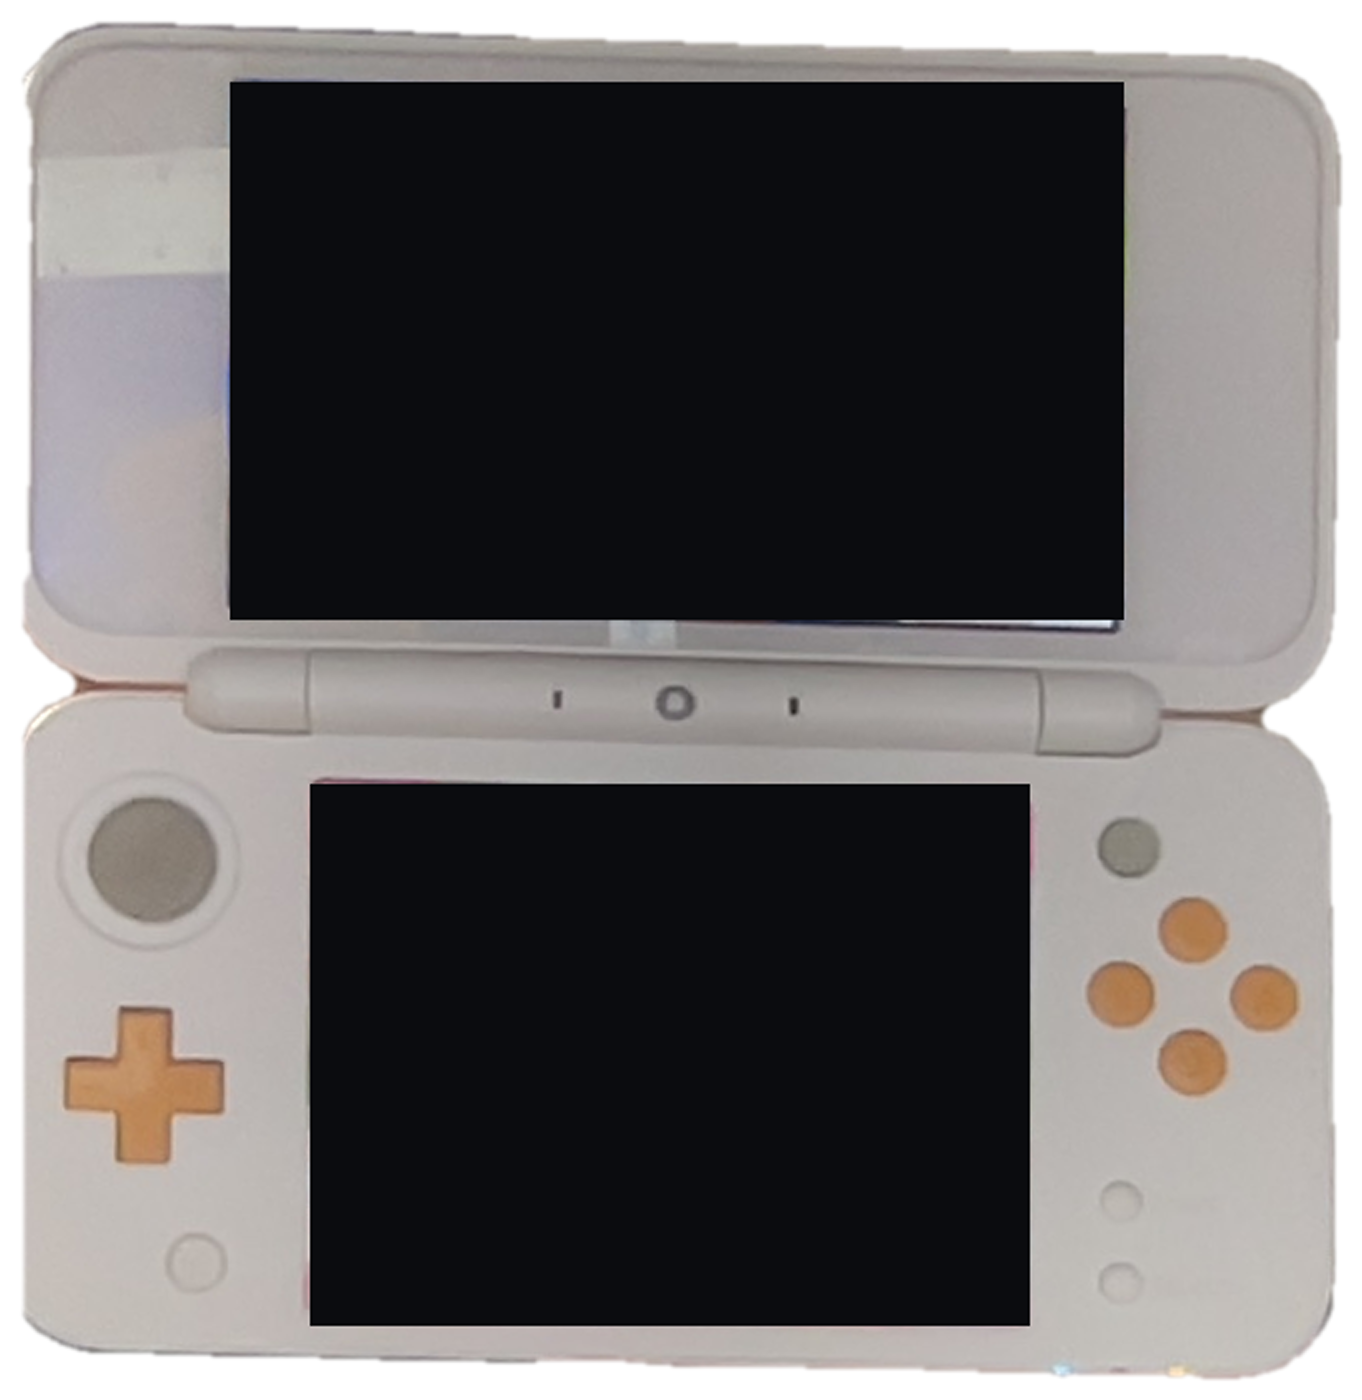
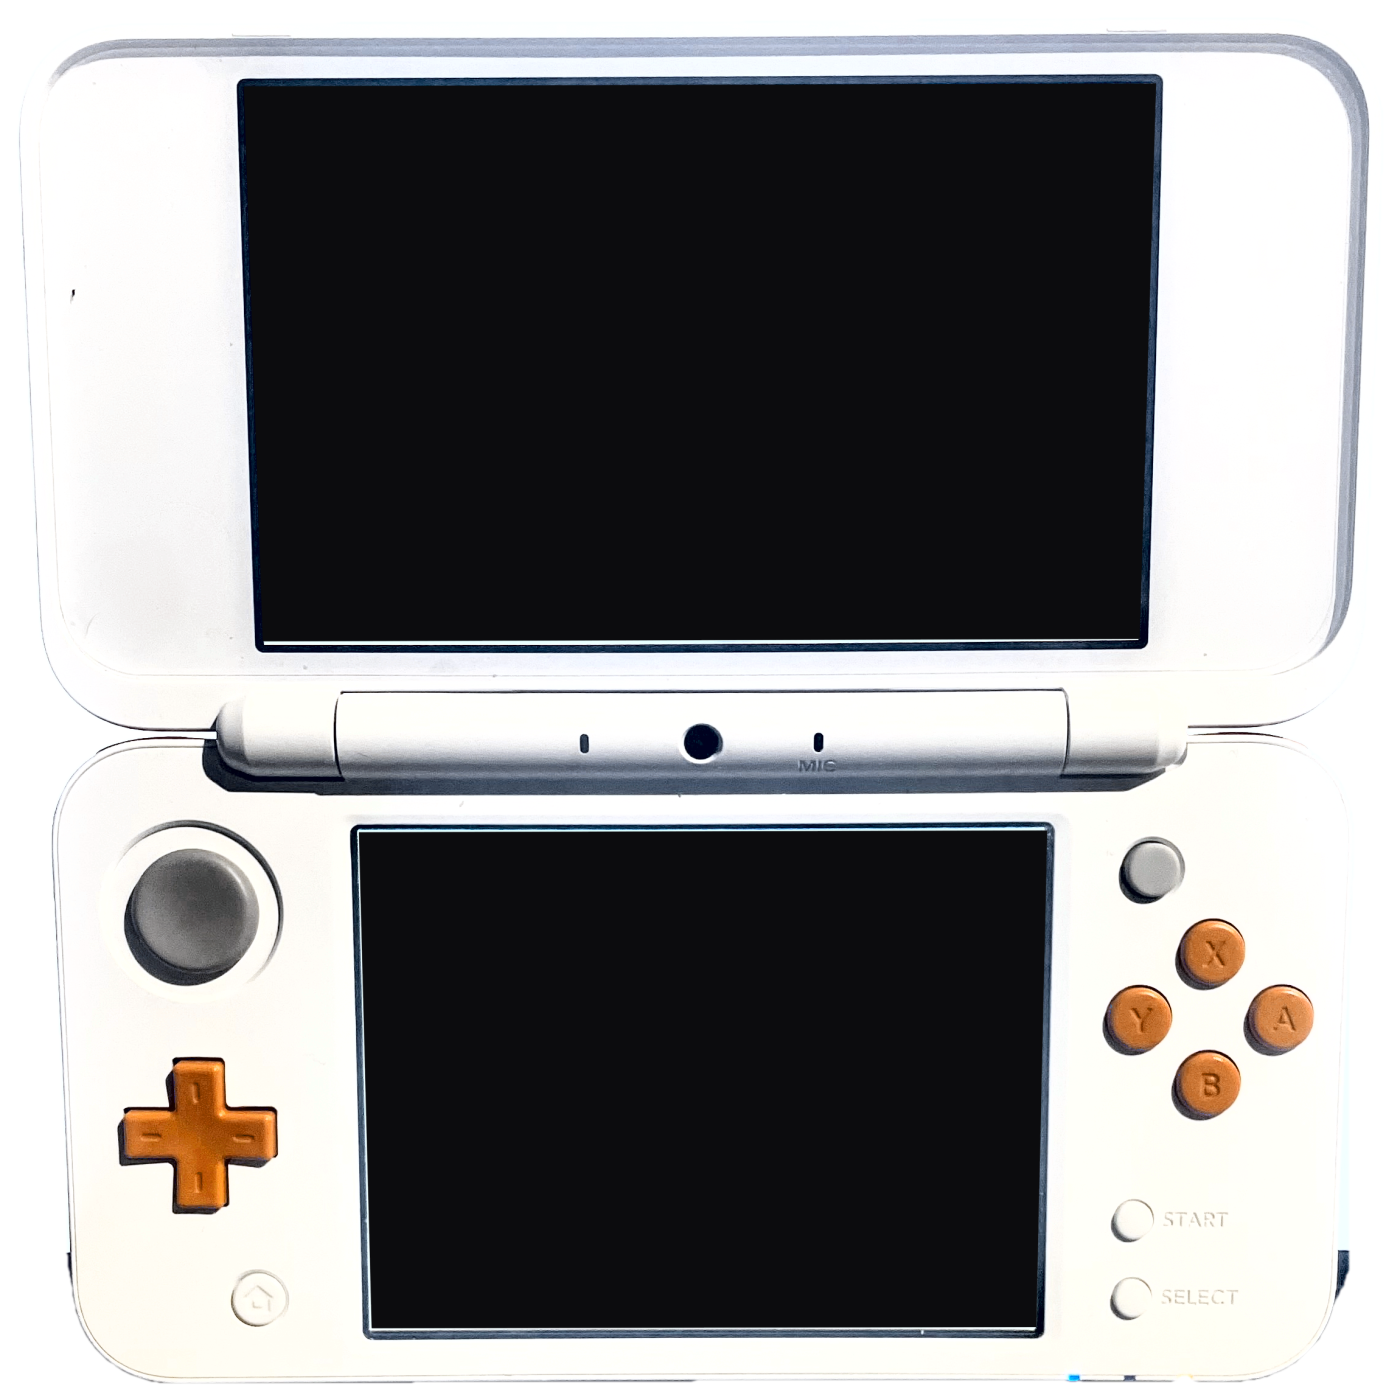
Nouvelle photo de 2DS XL (détourée, retouchée) avec calage des écrans en perspective
Claude-Session: https://claude.ai/code/session_01CUZp6XPhx95kYiCLkMMhQS

diff --git a/src/renderer/app.js b/src/renderer/app.js
@@ -15,7 +15,15 @@ const defaultScreen = (c1, c2) => ({
 });
 
 // Photo de 2DS XL fournie par heivoli-network.fr, écrans calés au pixel
-const DEFAULT_DEVICE = { photo: 'assets/2ds-xl.png', top: { x: 17.034, y: 6.0, w: 65.198 }, bottom: { x: 22.89, y: 56.203, w: 52.437 } };
+const DEFAULT_DEVICE = {
+  photo: 'assets/2ds-xl.png',
+  // coins réels des écrans (pixels de l'image 1400×1400) : haut-gauche, haut-droit, bas-droit, bas-gauche
+  quads: {
+    top: [[246.4, 88.2], [1153.0, 85.2], [1136.5, 636.4], [265.3, 638.9]],
+    bottom: [[360.8, 833.6], [1044.7, 831.7], [1033.7, 1325.2], [373.6, 1326.4]],
+  },
+  top: { x: 18, y: 6, w: 64 }, bottom: { x: 26, y: 59, w: 49 },
+};
 
 let state = {
   top: defaultScreen('#ff4d5e', '#6a3cff'),
@@ -432,6 +440,8 @@ function initStage() {
   };
   $('#btnPhotoReset').onclick = () => { state.device.photo = null; document.body.classList.remove('calibrating'); syncPanel(); };
   $('#btnDefaultPhoto').onclick = () => { state.device = JSON.parse(JSON.stringify(DEFAULT_DEVICE)); document.body.classList.remove('calibrating'); syncPanel(); };
+  $('#photoImg').addEventListener('load', syncPhoto);
+  new ResizeObserver(() => syncPhoto()).observe($('#photoImg'));
   // Les repères du menu HOME suivent la taille des écrans de la photo
   for (const [id, w] of [['#phTop', 400], ['#phBottom', 320]]) {
     const el = $(id);
@@ -471,23 +481,50 @@ function syncPhoto() {
   const has = !!state.device.photo;
   $('#device').classList.toggle('hidden', has);
   $('#photoDevice').classList.toggle('hidden', !has);
-  $('#btnCalib').classList.toggle('hidden', !has);
   $('#btnPhotoReset').classList.toggle('hidden', !has);
   $('#btnDefaultPhoto').classList.toggle('hidden', state.device.photo === DEFAULT_DEVICE.photo);
   $('#btnCalib').classList.toggle('hidden', !has || state.device.photo === DEFAULT_DEVICE.photo);
   $('#optShell').parentElement.classList.toggle('hidden', has);
-  $('#btnDefaultPhoto').classList.toggle('hidden', state.device.photo === DEFAULT_DEVICE.photo);
   if (!has) return;
   const img = $('#photoImg');
   if (img.getAttribute('src') !== state.device.photo) img.src = state.device.photo;
-  const place = (el, d, ar) => {
-    el.style.left = d.x + '%';
-    el.style.top = d.y + '%';
-    el.style.width = d.w + '%';
-    el.style.aspectRatio = ar;
+  const quads = state.device.photo === DEFAULT_DEVICE.photo ? DEFAULT_DEVICE.quads : null;
+  const place = (el, d, ar, w, quad) => {
+    if (quad && img.naturalWidth && img.clientWidth) {
+      // perspective exacte : rectangle w×240 projeté sur les 4 coins de l'écran
+      const k = img.clientWidth / img.naturalWidth;
+      Object.assign(el.style, { left: '0', top: '0', width: w + 'px', height: '240px', aspectRatio: 'auto', transformOrigin: '0 0',
+        transform: quadTransform(w, 240, quad.map(([x, y]) => [x * k, y * k])) });
+      return;
+    }
+    Object.assign(el.style, { left: d.x + '%', top: d.y + '%', width: d.w + '%', height: 'auto', aspectRatio: ar, transform: 'none' });
   };
-  place($('#phTop'), state.device.top, '400 / 240');
-  place($('#phBottom'), state.device.bottom, '320 / 240');
+  place($('#phTop'), state.device.top, '400 / 240', 400, quads && quads.top);
+  place($('#phBottom'), state.device.bottom, '320 / 240', 320, quads && quads.bottom);
+}
+
+// Homographie : rectangle (0,0)-(w,h) -> quadrilatère, en matrix3d CSS
+function quadTransform(w, h, q) {
+  const src = [[0, 0], [w, 0], [w, h], [0, h]];
+  const A = [], B = [];
+  for (let i = 0; i < 4; i++) {
+    const [x, y] = src[i], [u, v] = q[i];
+    A.push([x, y, 1, 0, 0, 0, -u * x, -u * y]); B.push(u);
+    A.push([0, 0, 0, x, y, 1, -v * x, -v * y]); B.push(v);
+  }
+  // élimination de Gauss
+  for (let c = 0; c < 8; c++) {
+    let p = c;
+    for (let r = c + 1; r < 8; r++) if (Math.abs(A[r][c]) > Math.abs(A[p][c])) p = r;
+    [A[c], A[p]] = [A[p], A[c]]; [B[c], B[p]] = [B[p], B[c]];
+    for (let r = 0; r < 8; r++) if (r !== c) {
+      const f = A[r][c] / A[c][c];
+      for (let k = c; k < 8; k++) A[r][k] -= f * A[c][k];
+      B[r] -= f * B[c];
+    }
+  }
+  const H = B.map((b, i) => b / A[i][i]);
+  return `matrix3d(${H[0]},${H[3]},0,${H[6]},${H[1]},${H[4]},0,${H[7]},0,0,1,0,${H[2]},${H[5]},0,1)`;
 }
 
 const clamp = (v, a, b) => Math.min(b, Math.max(a, v));
